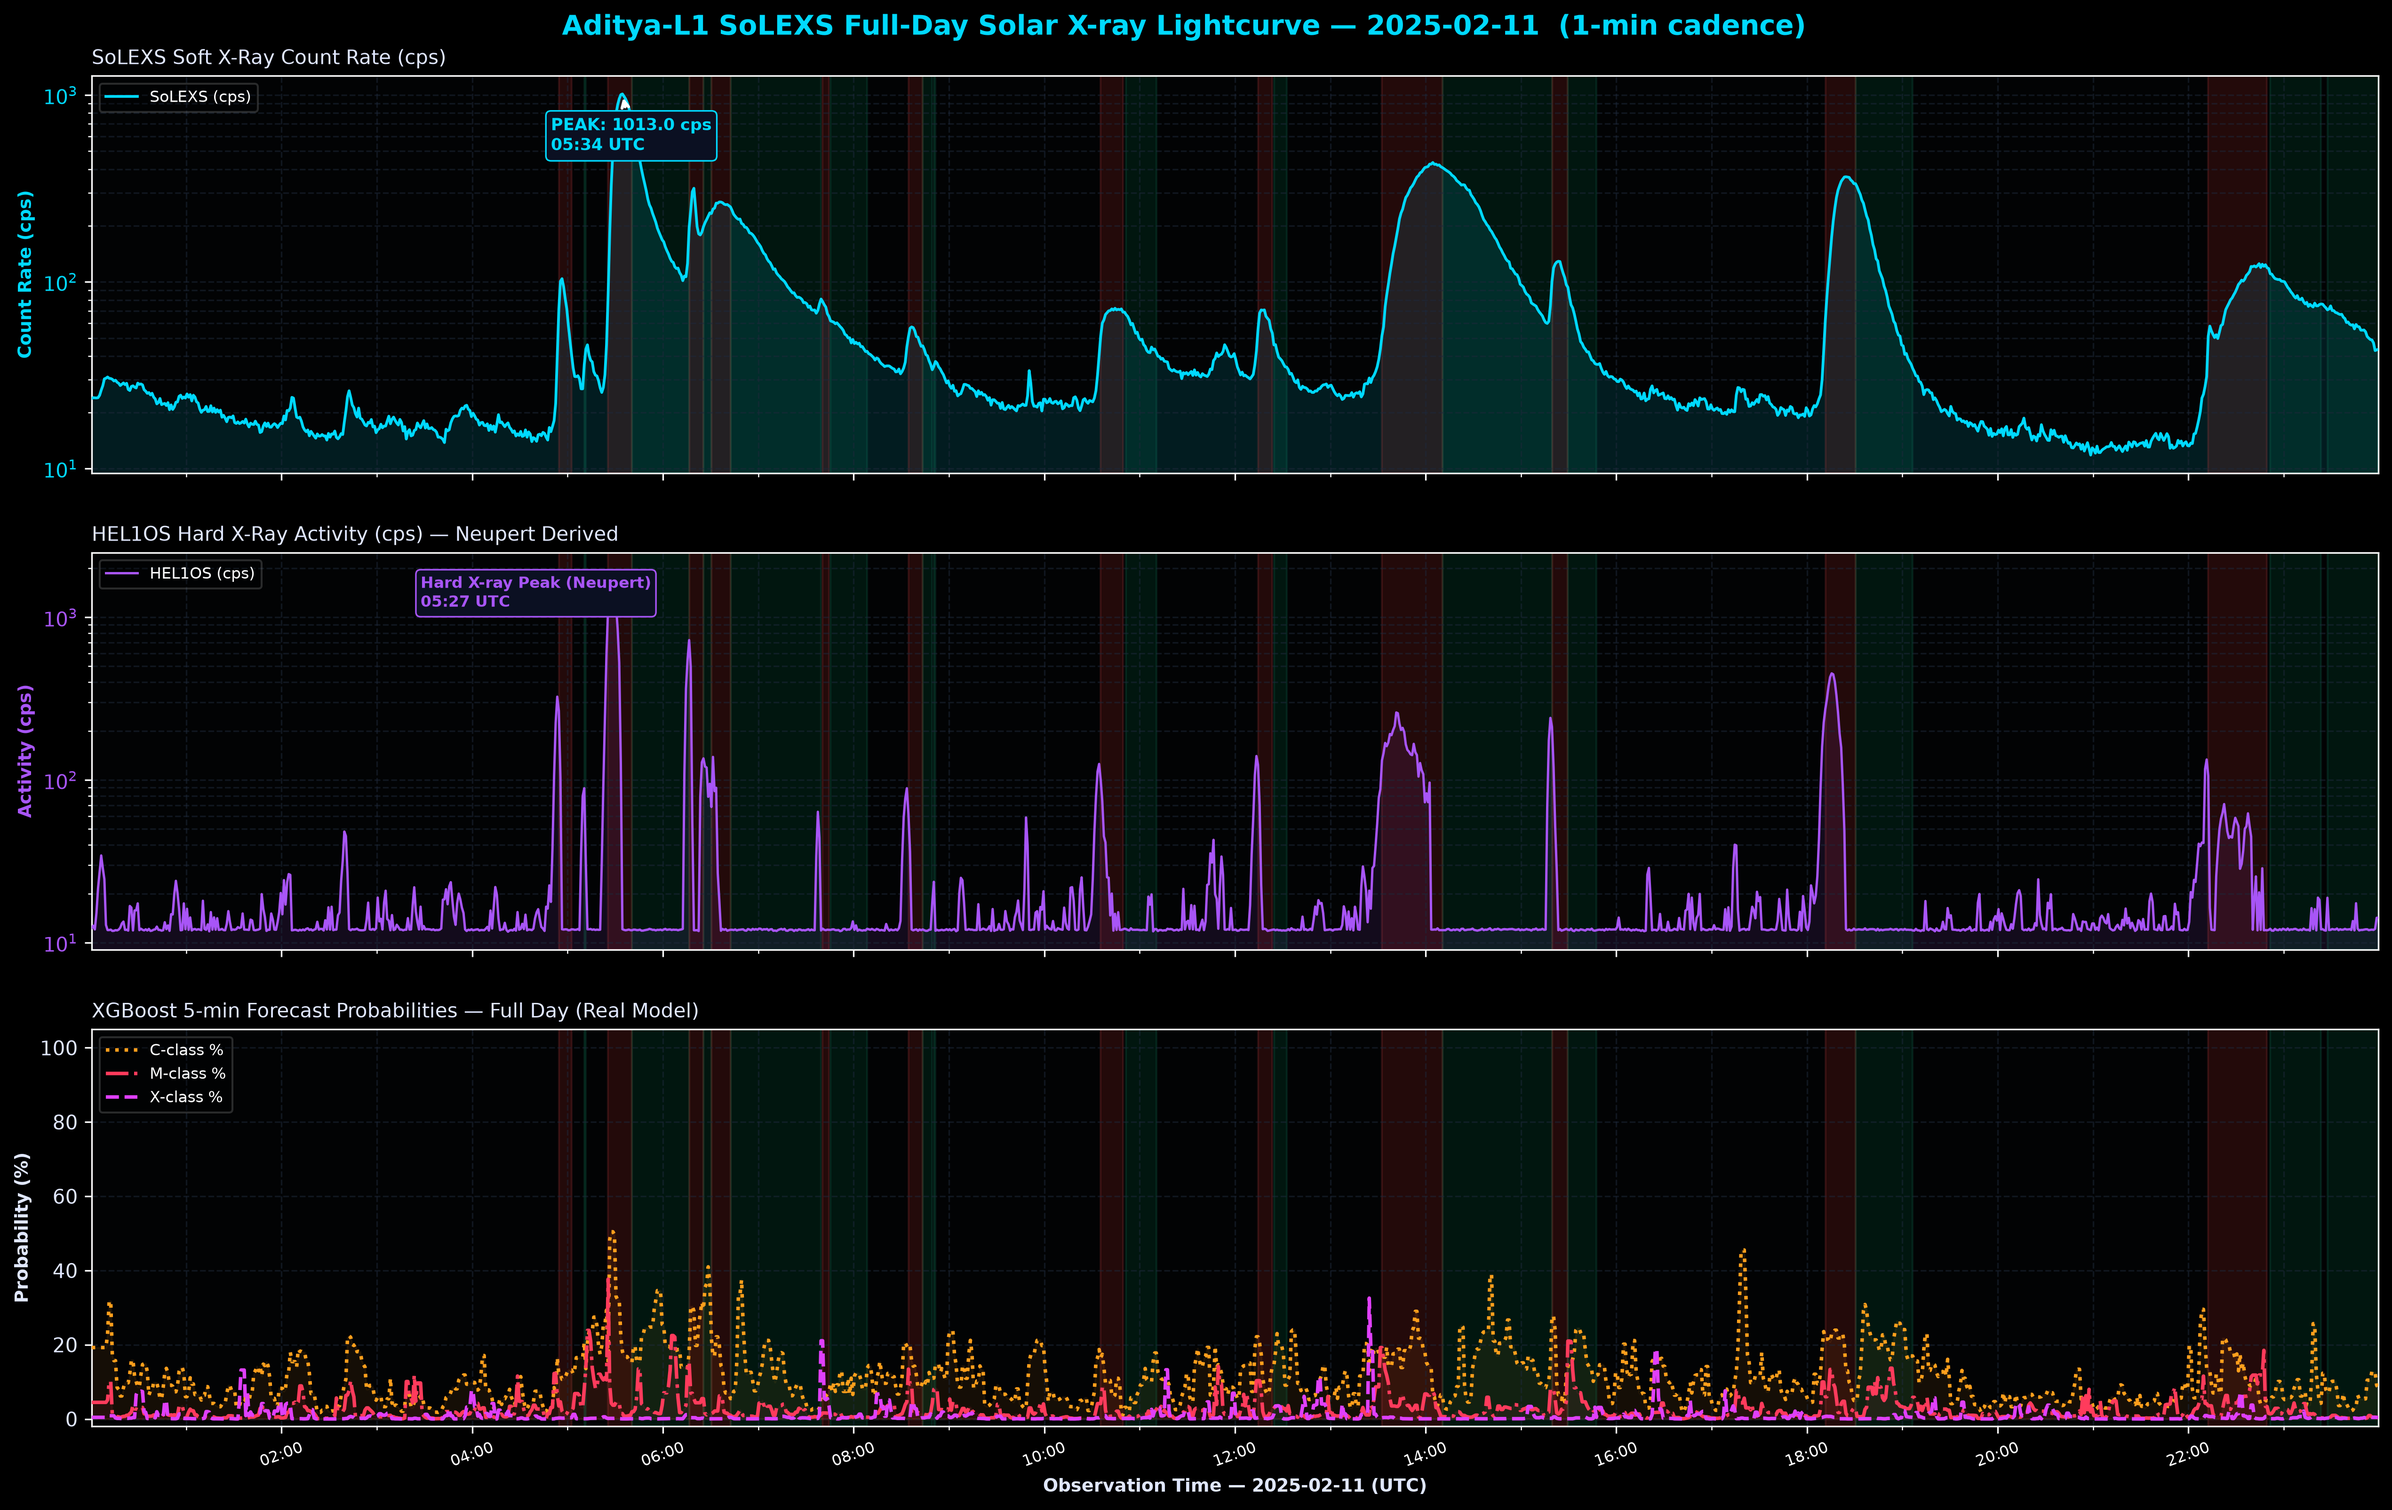
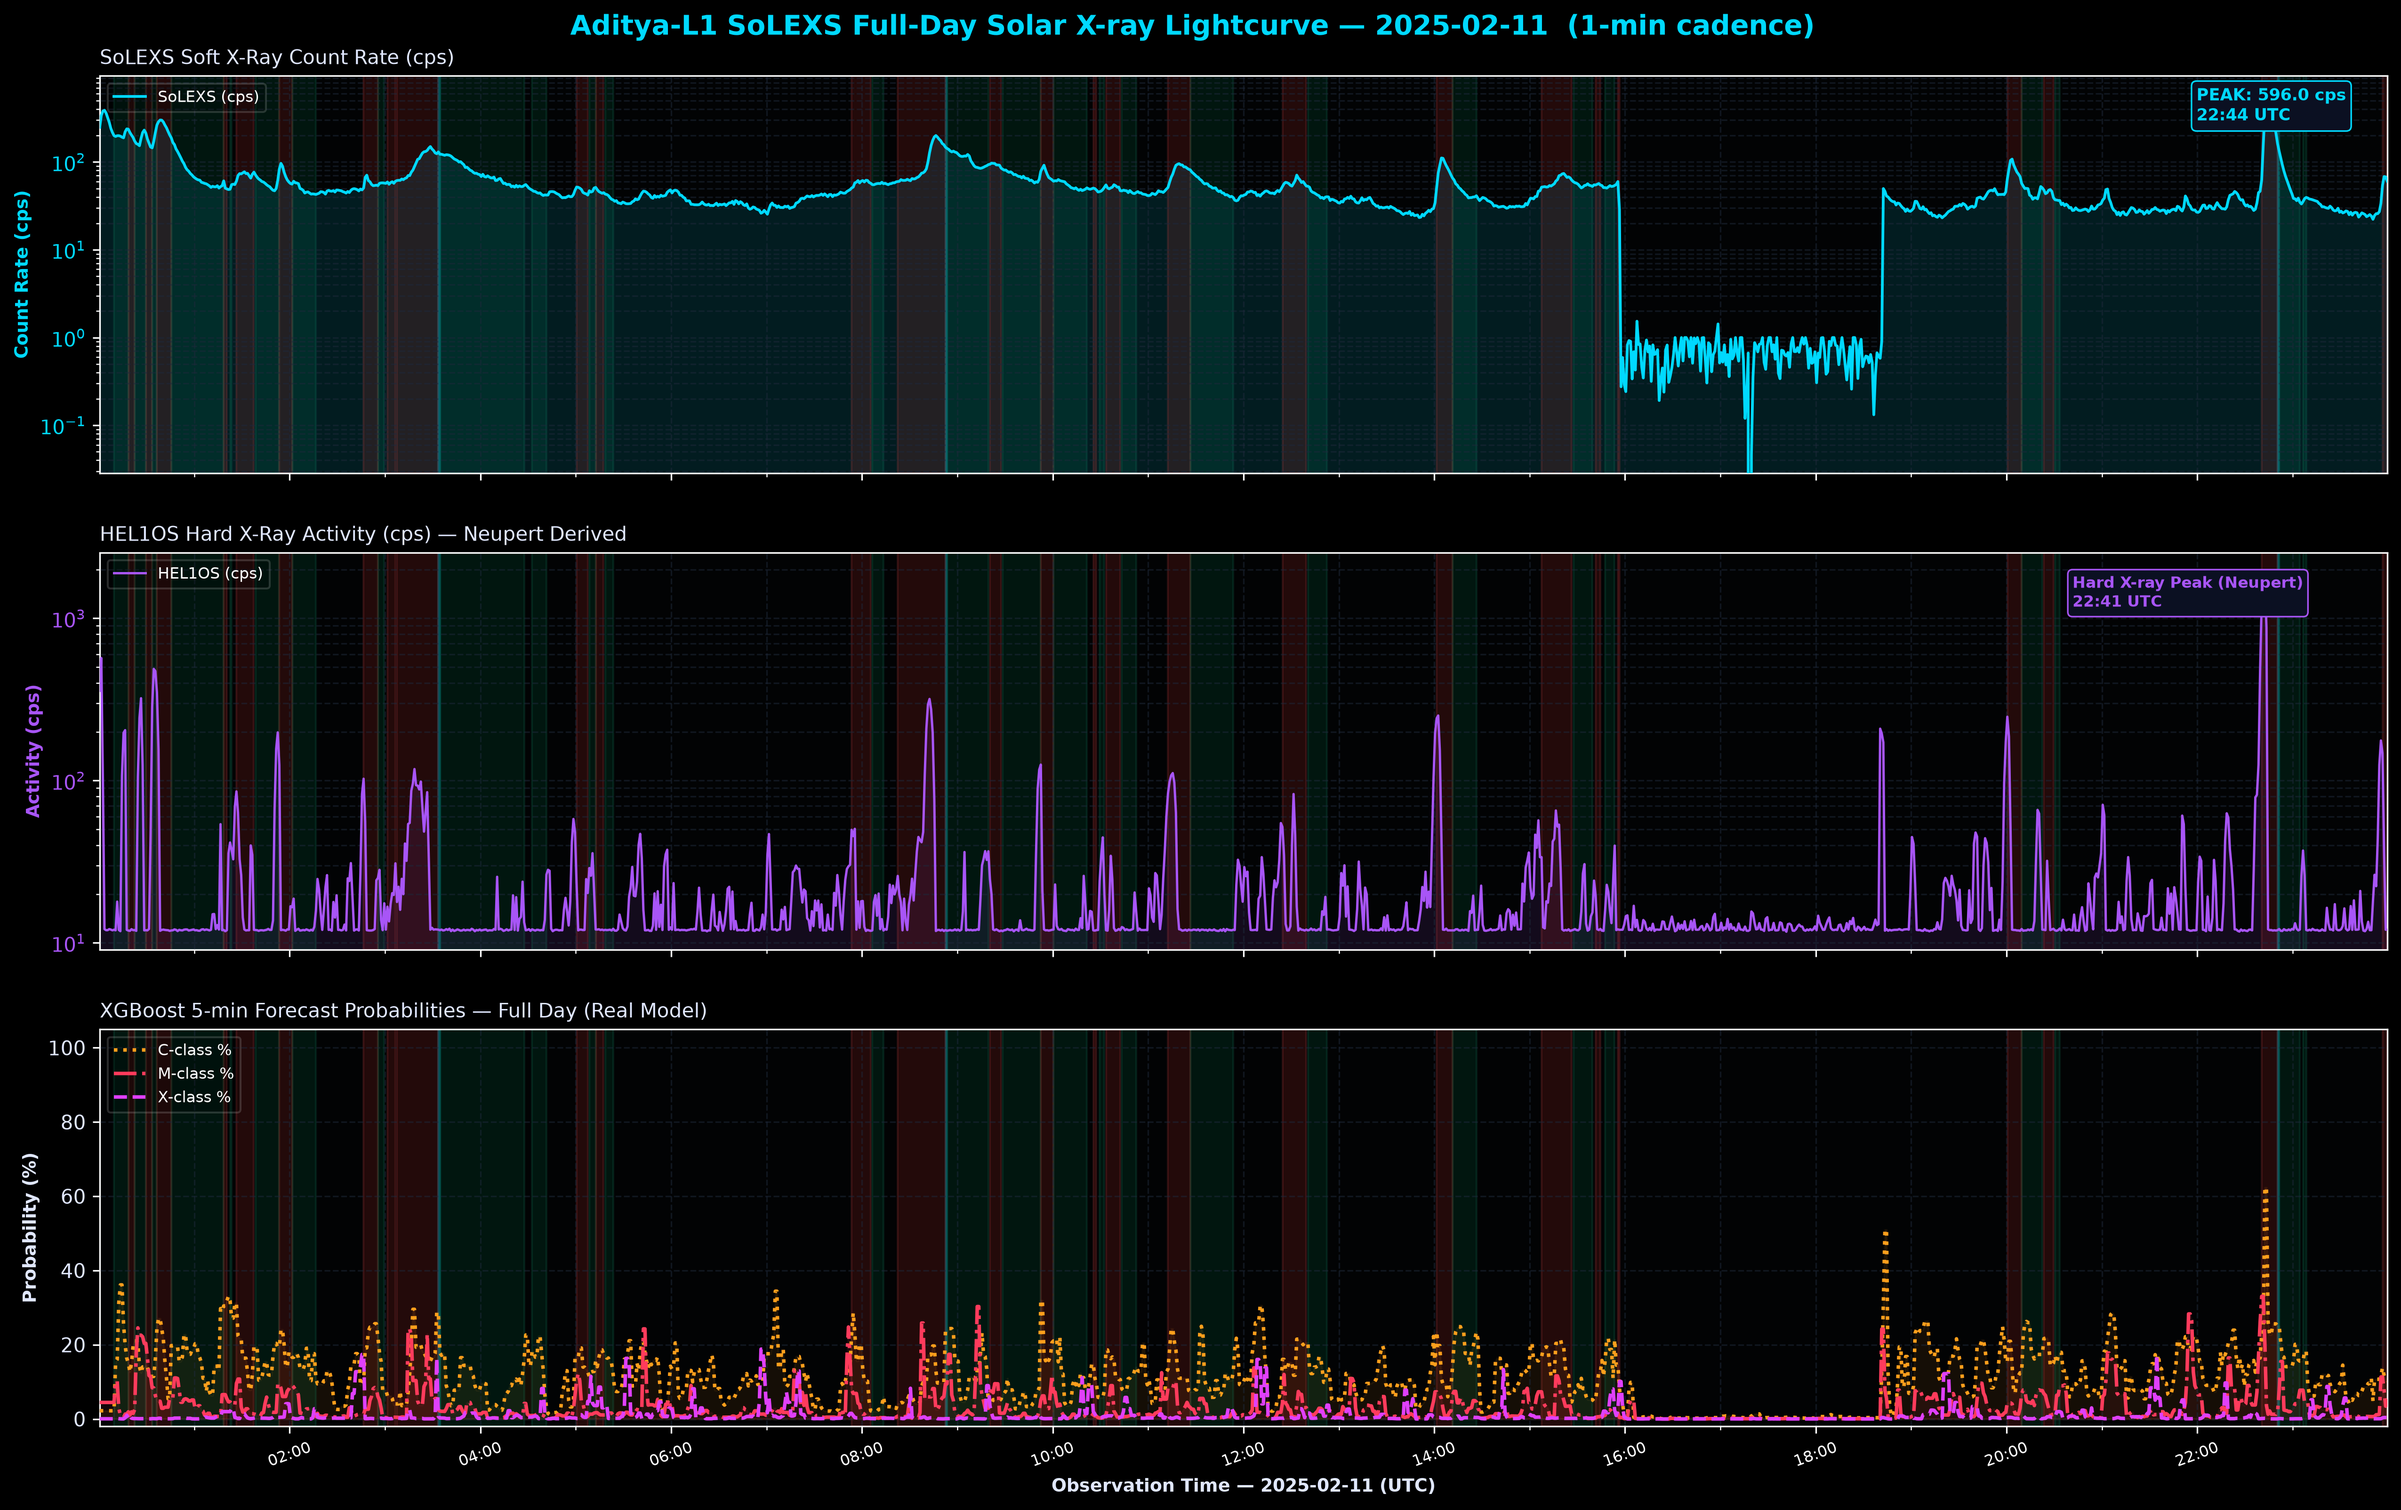
feat: implement trajectory visualization dashboard and logging services

diff --git a/frontend_vf/client/src/components/dashboard/TrajectorySummaryPanel.tsx b/frontend_vf/client/src/components/dashboard/TrajectorySummaryPanel.tsx
@@ -1,4 +1,4 @@
-import React, { useState, useEffect, useCallback } from "react";
+import React, { useState, useEffect, useCallback } from "react";
 import {
   ResponsiveContainer,
   AreaChart,
@@ -11,6 +11,7 @@ import {
   ReferenceLine,
 } from "recharts";
 import { Activity, RefreshCw, AlertTriangle } from "lucide-react";
+import { API_BASE_URL } from "../../services/api";
 
 interface PredRow {
   timestamp: string;
@@ -54,7 +55,7 @@ export function TrajectorySummaryPanel() {
 
   const load = useCallback(async () => {
     try {
-      const resp = await fetch("/api/v1/predictions/history?n=60");
+      const resp = await fetch(`${API_BASE_URL}/predictions/history?n=60`);
       if (!resp.ok) throw new Error(`HTTP ${resp.status}`);
       const json = await resp.json();
       if (json.error) { setError(json.error); setRows([]); return; }
@@ -157,7 +158,7 @@ export function TrajectorySummaryPanel() {
       </div>
 
       {/* Chart area */}
-      <div className="flex-1 min-h-[280px] relative">
+      <div className="w-full h-[340px] relative">
         {loading && rows.length === 0 && (
           <div className="absolute inset-0 flex flex-col items-center justify-center space-y-3 text-[#6b7590]">
             <div className="w-8 h-8 border-2 border-[#00d9ff]/30 border-t-[#00d9ff] rounded-full animate-spin" />

diff --git a/frontend_vf/vite.config.ts b/frontend_vf/vite.config.ts
@@ -224,6 +224,12 @@ export default defineConfig({
     port: 3000,
     strictPort: false, // Will find next available port if 3000 is busy
     host: true,
+    proxy: {
+      "/api": {
+        target: "http://127.0.0.1:8000",
+        changeOrigin: true,
+      },
+    },
     allowedHosts: [
       ".manuspre.computer",
       ".manus.computer",

diff --git a/backend/services/dashboard_service.py b/backend/services/dashboard_service.py
@@ -215,7 +215,7 @@ def get_dashboard_data(cache, root_dir) -> Dict[str, Any]:
                         round(1.5e-7 + random.random() * 8.5e-7, 9)
                     ])
         
-        # Append latest row
+        # Append latest row to predictions.csv
         with open(log_path, mode="a", newline="", encoding="utf-8") as f:
             writer = csv.writer(f)
             writer.writerow([
@@ -237,6 +237,33 @@ def get_dashboard_data(cache, root_dir) -> Dict[str, Any]:
                 prediction_id,
                 solexs_data.get("solexs_peak") if solexs_data.get("solexs_peak") is not None else (logger.warning("WARNING: solexs_peak is missing from solexs_data in dashboard_service, falling back to 0.0") or 0.0)
             ])
+            
+        # Also ensure team_predictions.csv gets real-time updates directly from backend
+        team_log_path = os.path.join(root_dir, "logs", "team_predictions.csv")
+        now_utc = datetime.now(UTC)
+        now_sec = now_utc.strftime("%Y-%m-%dT%H:%M:%S")
+        
+        # Check if latest entry is already logged for this second
+        already_logged = False
+        if os.path.exists(team_log_path):
+            with open(team_log_path, mode="r", encoding="utf-8") as tf:
+                t_rows = list(csv.DictReader(tf))
+                if t_rows and t_rows[-1].get("timestamp", "").startswith(now_sec):
+                    already_logged = True
+                    
+        if not already_logged:
+            probs = solexs_data.get("probabilities", {})
+            p_C = float(probs.get("C-like", probs.get("C", 0.0)))
+            p_M = float(probs.get("M-like", probs.get("M", 0.0)))
+            p_X = float(probs.get("X-like", probs.get("X", 0.0)))
+            ph  = solexs_data.get("nowcast_phase", "Background")
+            
+            tf_exists = os.path.isfile(team_log_path)
+            with open(team_log_path, mode="a", newline="", encoding="utf-8") as tf:
+                tw = csv.writer(tf)
+                if not tf_exists:
+                    tw.writerow(["timestamp", "nowcast_phase", "forecast_prob_C", "forecast_prob_M", "forecast_prob_X"])
+                tw.writerow([now_sec, ph, f"{p_C:.4f}", f"{p_M:.4f}", f"{p_X:.4f}"])
     except Exception as e:
         logger.error(f"Failed to log prediction: {e}")
         

diff --git a/reports/plot_trajectory_test.py b/reports/plot_trajectory_test.py
@@ -32,7 +32,7 @@ from features_v2 import extract_features
 MODEL_FILE = os.path.join(ROOT_DIR, "SOLEXS_downloads", "models", "model_forecast_5min.pkl")
 FITS_FILE  = os.path.join(ROOT_DIR, "SOLEXS_downloads", "data", "lc_files",
                            "AL1_SLX_L1_20240211_v1.0", "SDD2",
-                           "AL1_SOLEXS_20250211_SDD2_L1.lc.gz")
+                           "AL1_SOLEXS_20240211_SDD2_L1.lc.gz")
 
 PLOT_OUT       = os.path.join(ROOT_DIR, "reports", "log_lightcurve_trajectory.png")
 BRAIN_PLOT_OUT = r"C:\Users\Aastha\.gemini\antigravity-ide\brain\c4930618-7819-4859-8c02-e8dcfddf3371\log_lightcurve_trajectory.png"
